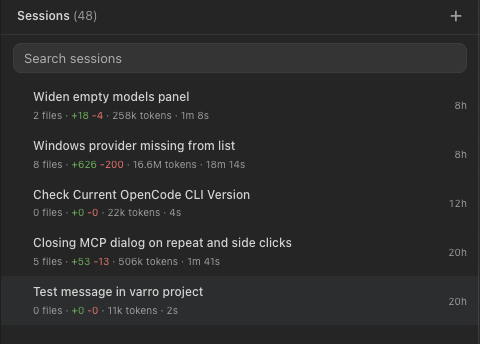
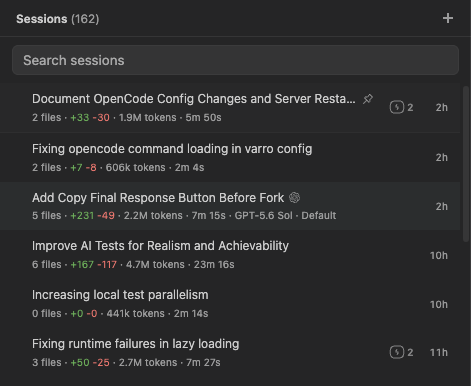
docs: document complete workbench feature coverage
Clarify which OpenCode capabilities are handled in the workbench, integrated through OpenCode, or handed off to another surface. Expand workflow guidance and refresh screenshots for current sessions, permissions, usage limits, and provider controls.

diff --git a/README.md b/README.md
@@ -6,7 +6,7 @@
 
 **The complete OpenCode experience inside VS Code.**
 
-Varro brings [OpenCode](https://opencode.ai) into a compact, project-aware workbench for daily agentic development. Run agents, manage parallel sessions, review plans and file changes, generate commit messages, control models and permissions, and monitor context, tokens, and provider limits without leaving the editor.
+Varro brings [OpenCode](https://opencode.ai) into a compact, project-aware workbench for daily agentic development. Run agents, manage parallel sidebar and editor sessions, review plans and inline file changes, generate commit messages, control models and permissions, and monitor context, tokens, and provider limits without leaving the editor.
 
 Varro builds on OpenCode instead of replacing it. Your local OpenCode configuration remains the source of truth for agents, providers, models, commands, skills, and MCP servers.
 
@@ -14,21 +14,48 @@ Varro builds on OpenCode instead of replacing it. Your local OpenCode configurat
 
 ## Why Varro
 
-- **Built for the whole agent loop.** Prompts, streaming output, reasoning, tool activity, permissions, questions, todos, plans, and changed files stay in one readable flow.
-- **Project context without busywork.** The active file and selection can follow the conversation automatically, while Explorer items, terminal output, files, folders, images, PDFs, `@` mentions, and `&` session references can be added explicitly.
-- **Parallel work that stays understandable.** Workspace sessions clearly identify running, attention-needed, failed, completed, and plan-ready work. Notifications and the status bar keep background sessions visible.
-- **OpenCode controls at the point of work.** Agents, models, reasoning variants, permission modes, provider connections, and per-session MCP connections are available inside the workbench.
+- **Built for the whole agent loop.** Prompts, streaming output, reasoning, tool activity, permissions, questions, todos, plans, inline edits, and changed files stay in one readable flow.
+- **Structured chat output.** Active work, failures, approvals, edits, and final responses are shown directly. Routine activity and thinking collapse into compact summaries that can be expanded.
+- **A coding-first chat composer.** Work with live editor context, inline file, agent, and session chips, drag-and-drop attachments, pasted images and PDFs, terminal selections, slash-command completion, prompt history, undo and redo, and restored drafts.
+- **Image analysis for text-only models.** Configure an `@vision` sub-agent to inspect attached images when the selected model supports tools but not image input.
+- **Read-only codebase Q&A.** Configure an `ask` primary agent to investigate code and documentation without editing files, running commands, or delegating work.
+- **Parallel work that stays clear.** Session state, notifications, and status-bar updates keep background work visible and actionable.
+- **Control work in progress.** Queue follow-ups, steer an active run, or stop and replace the current prompt without waiting for the session to finish.
+- **Permission control for each session.** Keep approval requests in the chat and choose between manual control, edit approval, automatic review, or unrestricted access.
+- **OpenCode controls at the point of work.** Agents, models, reasoning variants, provider connections, and per-session MCP connections are available inside the workbench.
 - **Commit messages where you commit.** Generate a repository-aware message from staged changes in VS Code, without leaving Source Control or handing commit control to the model.
-- **Usage you can act on.** Provider limits and reset windows appear next to model controls when available, while detailed accounting covers context fill, input, output, reasoning, cache, and sub-agent tokens.
-- **Compact by design.** The complete workflow remains readable in a sidebar, with an optional session pane for larger layouts.
+- **Token usage and limits.** Context fill and session token usage remain visible during work, with detailed accounting, provider limits, and cross-project reports.
+- **Simple to use, adjustable where it matters.** The polished UI keeps everyday actions easy to find and needs little setup, while optional settings tune chat typography, thinking visibility, inline diffs, the changed-files panel, compaction, and default permissions.
+- **Native VS Code theming.** Varro follows light, dark, high-contrast light, and high-contrast dark themes, including theme changes while the workbench is open.
+- **Fits your layout.** Keep Varro in the side panel, maximize the sidebar through VS Code when a conversation needs more room, or open chats in editor tabs for side-by-side work. Larger layouts can also keep the session pane visible beside the active chat.
+
+## OpenCode Feature Coverage
+
+`In workbench` means the workflow has dedicated Varro UI. `Integrated` means OpenCode remains responsible for the underlying configuration or operation while Varro exposes it in the workbench. `Handoff` opens the appropriate OpenCode or VS Code surface.
+
+| OpenCode capability | Coverage | Varro support |
+| --- | --- | --- |
+| Sessions and history | In workbench | Create, search, resume, rename, pin, fork, share, export, recycle, and navigate root and sub-agent sessions. |
+| Streaming chat and tool calls | In workbench | Keep active and important output inline while grouping routine completed activity into expandable summaries. |
+| Queue and steering | In workbench | Queue follow-ups with attachments, manage their order and state, steer the active run, or stop and send a replacement. |
+| Agents and sub-agents | Integrated | Select primary agents, mention agents, follow child sessions, and display delegated work. Agent definitions stay in OpenCode configuration. |
+| Providers, models, and reasoning | In workbench | Connect supported provider credentials, choose models and variants, pin or hide models, and assign helper models. |
+| Files and multimodal context | In workbench | Attach files, folders, selections, terminal output, diagnostics, images, PDFs, and session references, subject to model capabilities. |
+| Permissions and questions | In workbench | Answer inline requests and questions, choose a permission mode per session, and preserve child-session approvals in the parent flow. |
+| Commands and skills | Integrated | Run built-in and custom slash commands, browse OpenCode skills, and use session actions such as compact, undo, redo, and export. |
+| MCP servers | In workbench | View OpenCode MCP servers and connect or disconnect them per session. |
+| Plans and todos | In workbench | Track todos, surface completed plans, open plan documents, continue into implementation, or run Ralph loops. |
+| Compaction and recovery | Integrated | Configure automatic compaction, compact manually, reconnect resumable sessions, and recover from transient transport failures. |
+| LSP, formatters, and custom tools | Integrated | Show active language-server status and render resulting tool activity; definitions and execution remain with OpenCode. |
+| OpenCode configuration and TUI | Handoff | Keep local OpenCode config as the source of truth, open instruction files for editing, or continue any session in the OpenCode TUI. |
 
 ## Sessions
 
-Sessions are filtered to the current workspace and grouped into `Recent`, `Archive`, and `Recycle Bin`. Pinned and active-state sessions stay surfaced, while ordinary sessions are ordered approximately by activity. Each session can show changed files, line additions and removals, token usage, duration, and current state.
+Sessions are filtered to the current workspace and grouped into `Recent`, `Archive`, and `Recycle Bin`. Header badges filter or jump to `Running`, `Needs attention`, `Failed`, `Plan ready`, and `Completed` sessions. Pinned and active-state sessions stay surfaced, while ordinary sessions are ordered approximately by activity. Session rows can show queued-message counts, changed files, line additions and removals, token usage, duration, and current state.
 
-OpenCode's native search finds root sessions across loaded and older history. Top-level sessions can be pinned, renamed, or moved to the recycle bin. Any session can be opened in the sidebar, an editor tab, or the OpenCode TUI; shared or unshared; or have its ID copied. Sharing asks OpenCode to create a share link and copies it to the clipboard. Sub-agent sessions remain linked to their parent session. On larger layouts, the session list can stay open beside the active chat.
+OpenCode's native search finds root sessions across loaded and older history. Top-level sessions can be pinned, renamed, or moved to the recycle bin. Any session can be opened in the sidebar, an editor tab, or the OpenCode TUI; shared or unshared; or have its ID copied. New chats can also start directly in editor tabs, with a terminal editor available from the chat-tab toolbar. Sharing asks OpenCode to create a share link and copies it to the clipboard. Sub-agent sessions remain linked to their parent session. On larger layouts, the session list can stay open beside the active chat.
 
-When the sidebar is hidden, Varro can notify you when a plan is ready, a top-level session fails, requests permission, or asks a question. The status bar also tracks top-level sessions that finish in the background.
+When the sidebar is hidden, Varro can notify you when a plan is ready, a top-level session fails, requests permission, or asks a question. The status bar tracks waiting and completed top-level sessions; selecting it opens work that needs attention first, then completed background work.
 
 ![Workspace sessions with status, token, and change summaries](https://raw.githubusercontent.com/koltyakov/varro/main/assets/sessions.png)
 
@@ -40,21 +67,47 @@ When the sidebar is hidden, Varro can notify you when a plan is ready, a top-lev
 - Files and folders can be dragged into the composer, and images can be pasted directly.
 - Typing `@` searches workspace files and available agents.
 - Typing `&` searches recent root sessions and inserts a navigable session reference.
-- While a session is running, you can queue a follow-up, steer the current run, or stop and replace the prompt.
+- While a session is running, you can queue a follow-up, steer the current run, or stop and replace the prompt. Queued messages can be reordered, paused or resumed, edited, retried, removed, or sent immediately as steering.
+- The composer shows active language servers and links to their output when VS Code exposes it.
 - Composer undo and redo include file, image, and PDF attachment changes.
 - Unsent composer text and explicit file or folder attachments are restored after webview or window reloads.
 
+## Chat Output
+
+Varro structures agent output around what needs attention. Running commands stream their output, failures remain visible, permission requests and questions stay actionable, file edits get dedicated summaries or optional inline diffs, and the final response remains separate from tool activity.
+
+Completed routine work and thinking are compacted under summaries such as `Explored` and `Worked` instead of filling the transcript. Expand those summaries or individual tool cards when you need the underlying detail, open long tool input or output in an editor tab, toggle thinking visibility, or enable complete inline file previews.
+
+## Permissions And Questions
+
+Approval requests and follow-up questions stay inside the conversation. Permission prompts provide `Reject`, `Once`, and `Always` actions, while the composer lets each session use one of four modes:
+
+- `Default` follows permission rules from OpenCode configuration and the selected agent, showing requests that require manual approval.
+- `Auto-accept edits` approves file edits, known read-only actions, and sub-agent launches while continuing to ask before other actions.
+- `Auto` judges eligible requests with local rules and, when needed, a configured model. Anything it cannot decide safely falls back to an actionable prompt.
+- `Full access` grants unrestricted access for sessions that can operate without confirmation.
+
+Child sessions inherit the nearest selected permission mode in their session tree. When a child needs manual approval, Varro surfaces its request in the parent conversation without losing child-session ownership.
+
 ## Usage And Limits
 
-The context indicator reports how much of the selected model's known context window is in use. Its popup includes session totals for input, output, reasoning, cache reads, cache writes, and sub-agent tokens, plus the reported session cost when available.
+Token usage is part of the working layout, not only a report. The composer shows context-window fill beside the model controls, session rows show token usage at a glance, and the context popup breaks the active session down into input, output, reasoning, cache reads, cache writes, and sub-agent tokens. It also shows reported session cost when OpenCode supplies it.
+
+Run `/stats` or `Varro: Usage Stats` to open a Markdown report built from retained OpenCode history across all projects. It compares today, the last 7 days, and the last 30 days, with prompt counts and input, output, reasoning, cache, and total tokens grouped by provider and model. `/stats all` adds retained all-time usage.
+
+![Context window and session token breakdown](https://raw.githubusercontent.com/koltyakov/varro/main/assets/context.png)
 
 Provider-limit status is shown when OpenCode metadata or a supported provider endpoint supplies quota data. Available windows include remaining capacity and reset timing. If a provider returns a usage-limit error, Varro provides actions to stop retrying or switch providers.
 
-![Context window and session token breakdown](https://raw.githubusercontent.com/koltyakov/varro/main/assets/context.png)
+![Provider quota limits and reset windows](https://raw.githubusercontent.com/koltyakov/varro/main/assets/limits.png)
 
 ## Models And MCPs
 
 The model picker loads providers and models from OpenCode. It shows known capabilities such as tool support, reasoning variants, vision and PDF support, and context-window size. Providers and individual models can be hidden from the picker, frequently used models can be pinned, and models can have local display names without changing their OpenCode IDs or configuration.
+
+A tool-capable text-only model can delegate pasted-image analysis to a configured OpenCode sub-agent named `vision`. Give that agent an image-capable model, then include an exact `@vision` mention in the prompt. Varro passes the images to the sub-agent without sending unsupported image input to the parent model. See [Add Vision To A Text-Only Model](https://github.com/koltyakov/varro/blob/main/docs/usage.md#add-vision-to-a-text-only-model) for configuration.
+
+For questions and investigation, configure a primary agent named `ask` with a catch-all deny rule followed by explicit read and search allowances. Varro adds it to the agent picker, where it can use the global model or its own model and can be selected as the default for new sessions. See [Configure Primary Agents](https://github.com/koltyakov/varro/blob/main/docs/usage.md#configure-primary-agents) for a read-only example.
 
 The Models view can connect and disconnect provider credentials through OpenCode using available API-key or OAuth methods. If a provider rejects an expired or revoked credential, Varro offers targeted reauthentication from the failed response and the Models view. Terminal-based OpenCode setup remains available as a fallback.
 
@@ -64,15 +117,15 @@ MCP servers are also loaded from OpenCode and can be connected or disconnected p
 
 ## Auto-Generated Commit Messages
 
-Stage the changes you intend to commit, then use the quick wand icon in the Source Control toolbar or run `Varro: Generate Commit Message` from the Command Palette. Varro uses staged changes as the change input, follows recent repository commit style when possible, and fills the selected Git repository's commit input for review.
+Use the quick wand icon in the Source Control toolbar or run `Varro: Generate Commit Message` from the Command Palette. Varro uses staged changes when present; if nothing is staged, it falls back to the unstaged working tree. It follows recent repository commit style when possible and fills the selected Git repository's commit input for review.
 
-Generation never includes unstaged changes, stages files, or commits automatically. Varro preserves an existing draft unless you approve replacement, detects staging or input changes while generation is running, and keeps its temporary helper session out of chat history.
+Generation never mixes staged and unstaged scopes, stages files, or commits automatically. Varro preserves an existing draft unless you approve replacement, detects change-scope or input changes while generation is running, and keeps its temporary helper session out of chat history.
 
 ## Additional Workflows
 
 - Answer OpenCode questions and permission requests in the chat
 - Open changed files or hand the session off to VS Code Source Control
-- Generate a commit message from staged changes with the quick Source Control toolbar action or the Command Palette
+- Generate a commit message from staged changes, or unstaged changes when the index is empty, with the quick Source Control toolbar action or the Command Palette
 - Open a completed plan as a Markdown document or continue it in an implementation session
 - Run plan-driven Ralph loops with iteration, verification, repair, pause, and resume controls; Ralph runs use `Full access`
 - Use built-in and custom slash commands such as `/review`, `/compact`, `/export`, `/stats`, `/skills`, `/diagnostics`, `/fork`, and `/ralph`
@@ -90,6 +143,8 @@ Generation never includes unstaged changes, stages files, or commits automatical
 VS Code and VSCodium are the target containers for Varro. VS Code forks have limited support; see [VS Code fork compatibility](https://github.com/koltyakov/varro/blob/main/docs/vscode-forks.md) for details.
 
 Varro connects to `http://127.0.0.1:4096` by default. `varro.server.port` accepts integers from 1 through 65535. For advanced manual server management, disable the deprecated, debug-only `varro.server.autoStart` setting and run `opencode serve --port 4096`.
+
+The status bar reports the active OpenCode version and compatible updates. On macOS and Linux, `varro.server.autoUpdate` installs updates only through the OpenCode version tested with the current Varro release; Windows uses an upgrade prompt instead.
 
 Varro watches OpenCode's global configuration and refreshes it when OpenCode is idle. External project-configuration edits may require `Varro: Restart Server`. The command checks for active work and only restarts a server managed by Varro. Restart a manually launched server from its terminal.
 
